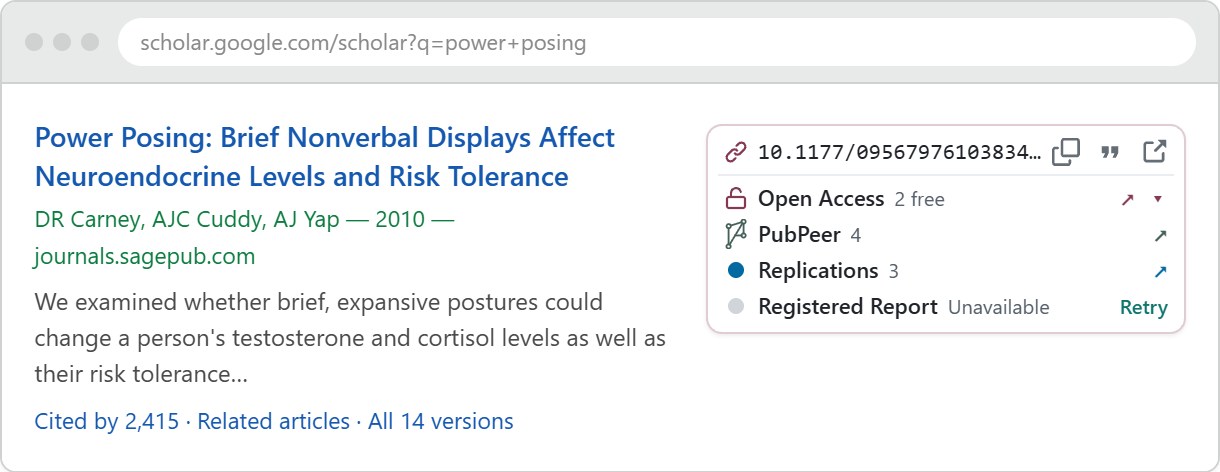
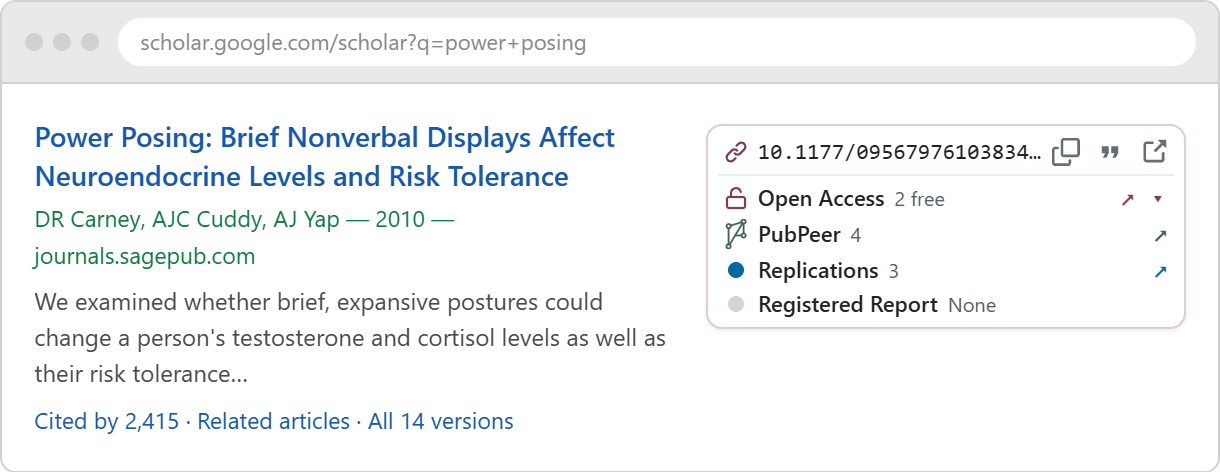
Image updates for Websites

Changed region(s): [[0.5607, 0.6229, 0.9656, 0.7119]]

diff --git a/src/walkthrough/demos.ts b/src/walkthrough/demos.ts
@@ -107,7 +107,13 @@ export function installOfflineFixtures(): void {
                 sync: {get: empty, set: () => Promise.resolve()},
                 onChanged: {addListener: () => {}},
             },
-            runtime: {sendMessage: () => Promise.resolve(undefined), lastError: null, id: "tour"},
+            runtime: {
+                sendMessage: (message: {type?: string}) => Promise.resolve(message?.type === "FLORA_RR_CHECK"
+                    ? {type: "FLORA_RR_CHECK_RESULT", results: {}}
+                    : undefined),
+                lastError: null,
+                id: "tour",
+            },
         };
     }
 }
